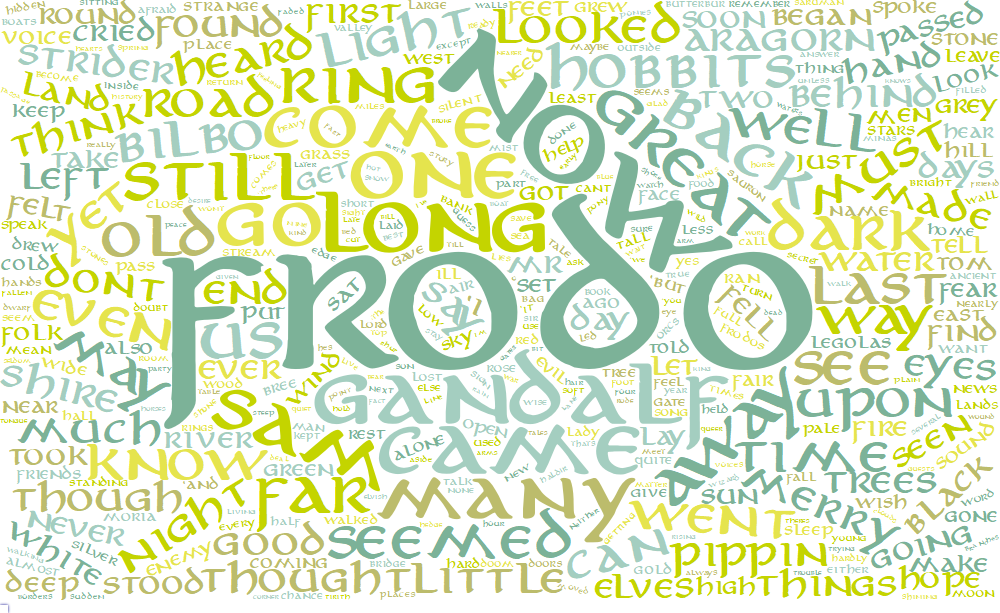
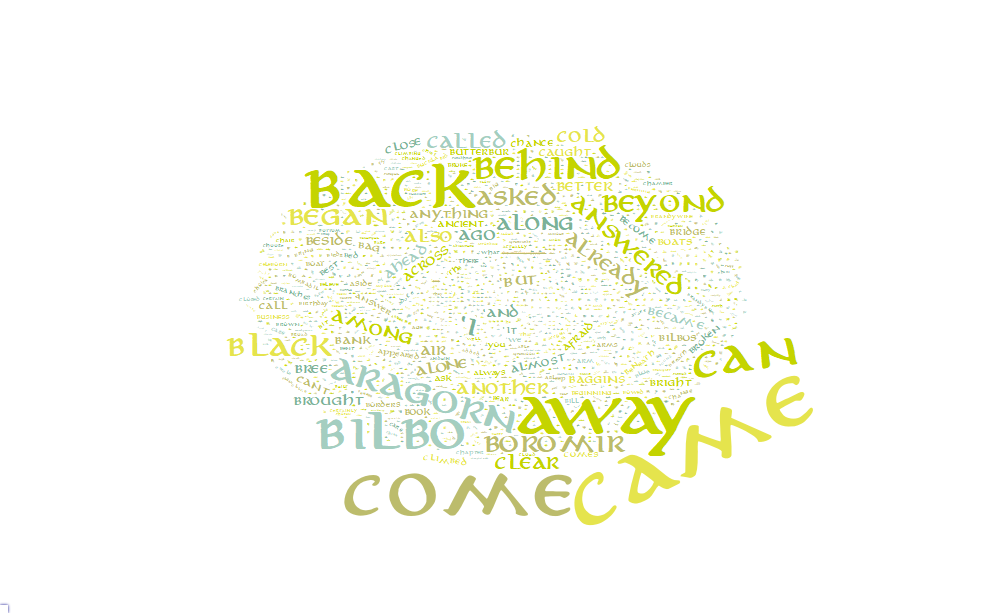
lotr

diff --git a/30DayChartChallenge/d4_magical.md b/30DayChartChallenge/d4_magical.md
@@ -22,20 +22,7 @@ words <- unlist(strsplit(l, " "))
 
 library(stopwords)
 library(tidyverse)
-```
 
-    ## -- Attaching packages --------------------------------------- tidyverse 1.3.1 --
-
-    ## v ggplot2 3.3.3     v purrr   0.3.4
-    ## v tibble  3.1.2     v dplyr   1.0.6
-    ## v tidyr   1.1.3     v stringr 1.4.0
-    ## v readr   1.4.0     v forcats 0.5.1
-
-    ## -- Conflicts ------------------------------------------ tidyverse_conflicts() --
-    ## x dplyr::filter() masks stats::filter()
-    ## x dplyr::lag()    masks stats::lag()
-
-``` r
 my_stopwords <- c("said", "shall", "saw", "like", "side", "suddenly")
 
 
@@ -45,7 +32,8 @@ d <- data.frame(words = words) %>%
   group_by(words) %>%
   count(sort = TRUE) %>%
   filter(!words %in% c(stopwords(), my_stopwords)) %>%
-  filter(!str_detect(words, "^<"))
+  filter(!str_detect(words, "^<")) %>%
+  slice(1:150)
 ```
 
 # wordcloud2
@@ -65,8 +53,9 @@ pal <- c("#a4cec0", "#7cb298", "#bcbc6c", "#e5e44d", "#c4d400")
 
 my_graph <- wordcloud2(d, 
                        fontFamily = "aniron", 
-                       color = sample(pal, nrow(d), TRUE), 
-                       shape = "circle")
+                       color = sample(pal, nrow(d), TRUE)
+                       # , shape = "pentagon"
+                       )
 # my_graph <- wordcloud2(d, 
 #                        fontFamily = "aniron", 
 #                        color = sample(pal, nrow(d), TRUE), 
@@ -76,6 +65,11 @@ my_graph <- wordcloud2(d,
 
 # save it in html
 library("htmlwidgets")
+```
+
+    ## Warning: package 'htmlwidgets' was built under R version 4.0.4
+
+``` r
 saveWidget(my_graph,"tmp.html",selfcontained = F)
 
 # and in png or pdf
